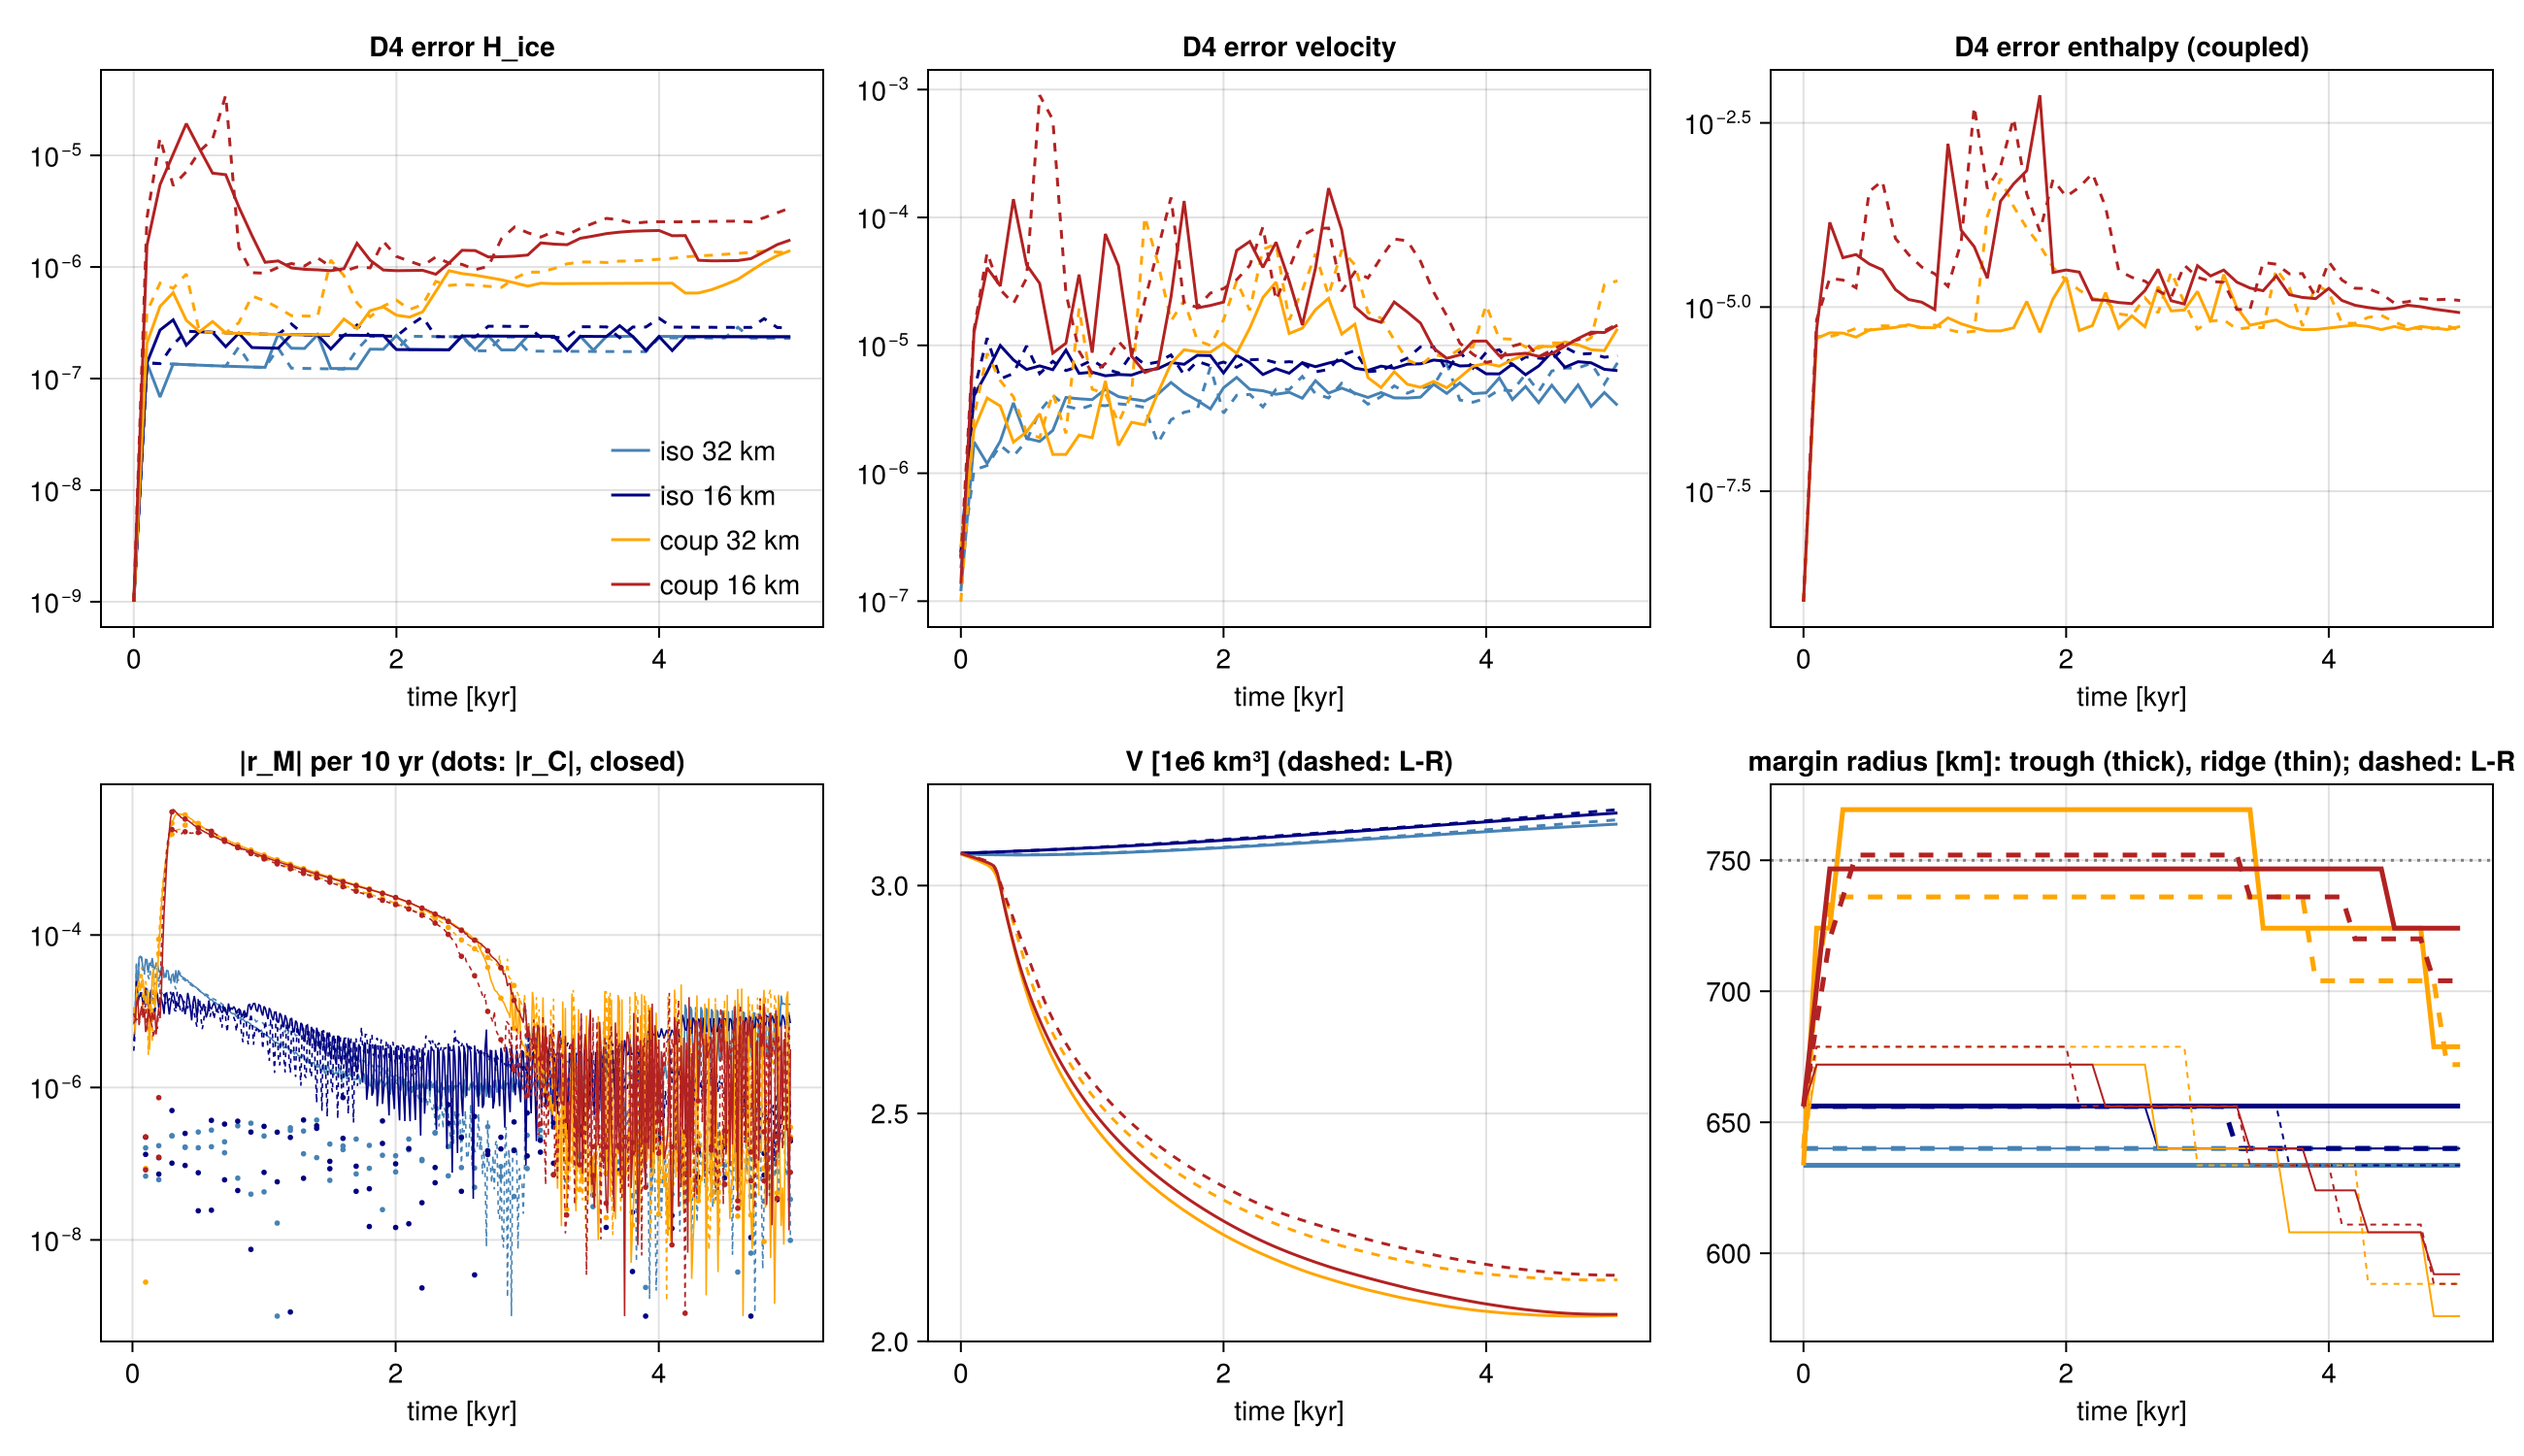
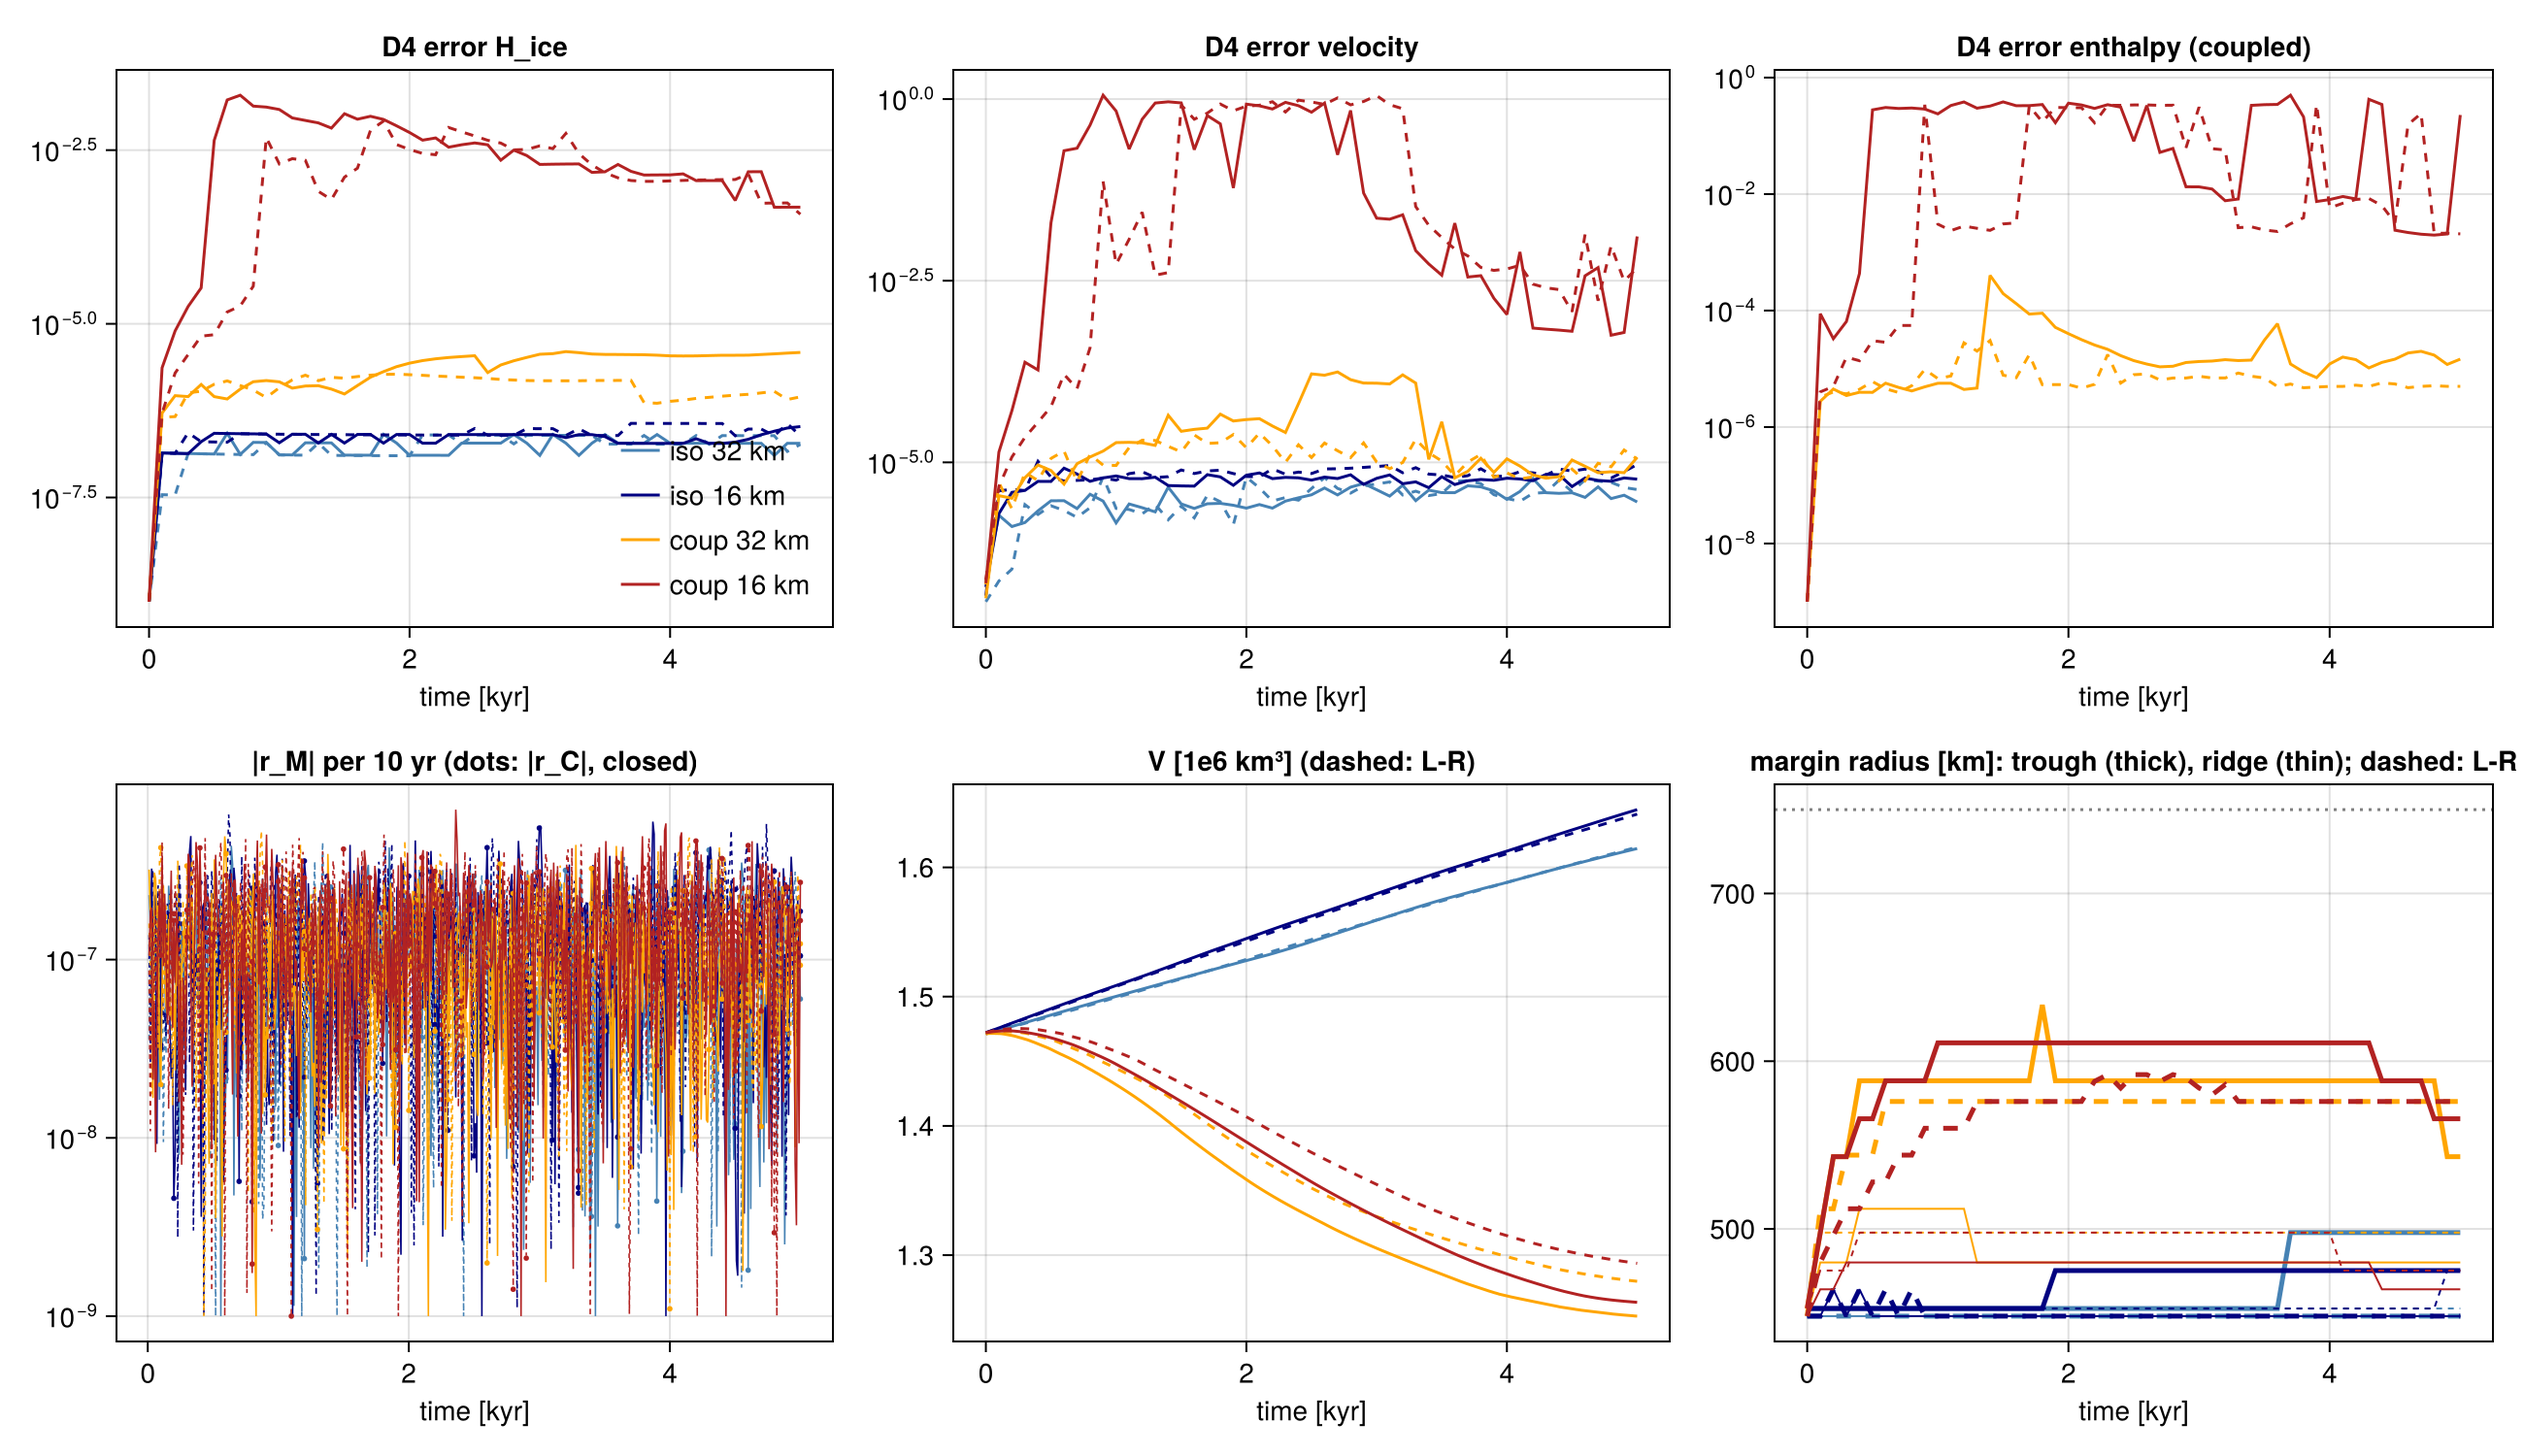
docs/dev: B1 figure from the rerun; symmetry maxima over 5 kyr

diff --git a/docs/dev/benchmark-protocol/index.md b/docs/dev/benchmark-protocol/index.md
@@ -300,20 +300,19 @@ The coupled B1 thus does not test a land margin set by ablation: the initial tem
 
 B1 rerun (2026-10-07, dev d23b4810: r_ela = 350 km, R_i = 450 km, mask budget fix; albedo; single precision with 16 threads, double precision with 1 thread):
 
-| Run | D4 error H / velocity at 5 kyr | max \|r_M\| per 10 yr | V [1e6 km³], 0 → 5 kyr |
+| Run | max D4 error over 5 kyr, H / velocity (enthalpy) | max \|r_M\| per 10 yr | V [1e6 km³], 0 → 5 kyr |
 |---|---|---|---|
-| 32 km isothermal, L / L-R | 2e-7 / 3–4e-6 | 4–5e-7 | 1.47 → 1.61 |
-| 32 km coupled, L / L-R | 1–4e-6 / 1e-5 | 5e-7 | 1.47 → 1.25 / 1.28 |
-| 16 km isothermal, L / L-R | 2–3e-7 / 6–9e-6 | 6–7e-7 | 1.47 → 1.64 |
-| 16 km coupled, L-R | 4e-4 / 5e-3 | 5e-7 | 1.47 → 1.29 |
-| 16 km coupled, L | 5e-4 / 1e-2 (peak 1e-2 / 1.1 at 0.6–2.4 kyr) | 7e-7 | 1.47 → 1.26 |
-| Double precision: 32 km isothermal, 32 km coupled, 16 km coupled | ≤ 7e-14 / ≤ 1e-12 | ≤ 2e-11 | as single precision |
+| 32 km isothermal, L / L-R | 3e-7 / 6e-6 | 4–5e-7 | 1.47 → 1.61 |
+| 32 km coupled, L / L-R | 4e-6 / 2e-4 (4e-4) | 5e-7 | 1.47 → 1.25 / 1.28 |
+| 16 km isothermal, L / L-R | 4e-7 / 1e-5 | 6–7e-7 | 1.47 → 1.64 |
+| 16 km coupled, L / L-R | 2e-2 / 1 (0.5); velocity 1e-2 at 5 kyr | 5–7e-7 | 1.47 → 1.26 / 1.29 |
+| Double precision, L: 32 km isothermal, 32 km coupled, 16 km coupled | 7e-14 / 1e-12 (3e-13) | 2e-11 | as single precision |
 
 - The margin stays inside r_lim in all runs, and the mass budget closes to round-off from the time series (`mb_resid_tot`, `mb_clip_tot`, `mb_relax_tot`).
-- In single precision, the coupled run at 16 km loses the symmetry between 0.3 and 0.6 kyr: the velocity error reaches order one at single cells and the enthalpy error 0.3 of its range, and both decay after 2.5 kyr. The same run in double precision stays symmetric to 1e-12. The break is therefore the amplification of single-precision round-off by a threshold in the coupled thermodynamics (e.g., a cell switching between cold and temperate base), not an asymmetry in the code.
+- In single precision, both coupled runs at 16 km lose the symmetry (L from 0.3–0.6 kyr, L-R from 1–2 kyr): the velocity error reaches order one at single cells and falls to 1e-2 by 5 kyr, while the enthalpy error stays at 0.2–0.5 of its range. The coupled 16 km run of ISLAND4-L in double precision stays symmetric to 1e-12. The break is therefore the amplification of single-precision round-off by a threshold in the coupled thermodynamics (e.g., a cell switching between cold and temperate base), not an asymmetry in the code.
 - ISLAND4-L vs ISLAND4-L-R: V differs by 6e-4 (32 km) and 2e-3 (16 km) in the isothermal runs and by 2 % in the coupled runs after 5 kyr; the margin radii differ by one to two cells.
 
-![B1 ISLAND4-L (solid) and ISLAND4-L-R (dashed), isothermal and coupled at 32 and 16 km: D4 symmetry error of H, velocity and enthalpy, mass budget residual |r_M| per 10-yr interval (dots: closed residual |r_C|), ice volume, and margin radius along the troughs and ridges (dotted: r_lim).](figures/b1.png)
+![B1 rerun (r_ela = 350 km, R_i = 450 km, single precision). ISLAND4-L (solid) and ISLAND4-L-R (dashed), isothermal and coupled at 32 and 16 km: D4 symmetry error of H, velocity and enthalpy, mass budget residual |r_M| per 10-yr interval (dots: closed residual |r_C|), ice volume, and margin radius along the troughs and ridges (dotted: r_lim).](figures/b1.png)
 
 B2 (2026-10-07, 8 km, 451 × 3 cells, 5 kyr, default solver tolerances, laptop, one thread). Parameter file `par/yelmo_bench_FLOWLINE.nml`, check `tests/bench/check_flowline.jl`.
 
